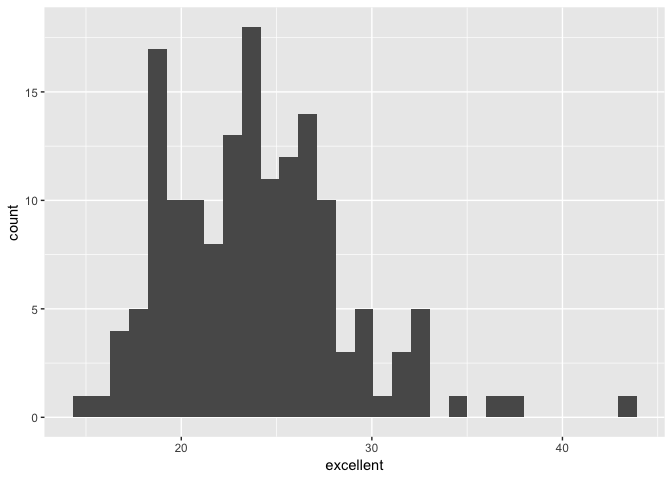
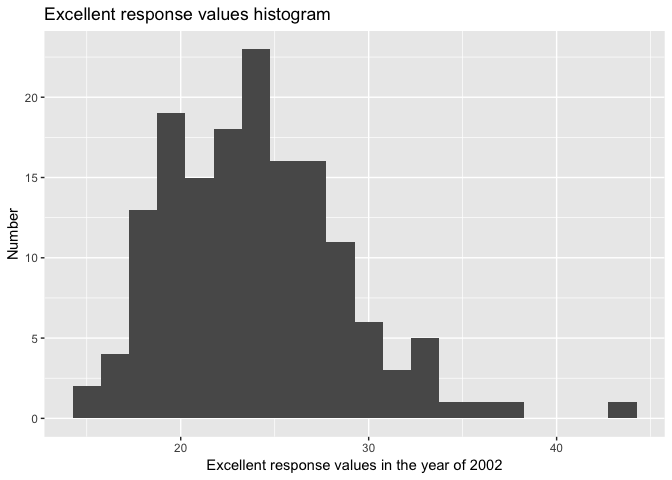
Final version of question 1.

diff --git a/p8105_hw2_sy2824.md b/p8105_hw2_sy2824.md
@@ -18,10 +18,14 @@ subway_data =
   mutate(vending = recode(vending, "YES" = "TRUE", "NO" = "FALSE")) 
 ```
 
-First, I read csv file into R and cleaned the format of variable names. Then, I deleted the unrelating coloums according to the question. Next, I deleted the exit\_only coloum since it is totally related to the coloum "entry". Finally, I changed the "entry" and "vending" coloum from charater to logical.
+-   Read csv file into R and cleaned the format of variable names.
+-   Delete the unrelating coloums according to the question.
+-   Delete the exit\_only coloum since it is completely related to the coloum "entry".
+-   Change the "entry" and "vending" coloum from charater to logical.
+-   The dimisention of this dataset is 1868, 19.
+-   This is not a tidy dataset because the variable `route` appears eleven times in the varibles row, this problem should be fixed.
 
-How many distinct stations?
----------------------------
+**How many distinct stations?**
 
 ``` r
 distinct(subway_data,line,station_name) %>%
@@ -32,8 +36,7 @@ nrow()
 
 There are 465 distinct stations.
 
-How many stations are ADA compliant?
-------------------------------------
+**How many stations are ADA compliant?**
 
 ``` r
 filter(subway_data,ada == "TRUE") %>%
@@ -45,8 +48,7 @@ nrow()
 
 There are 84 ADA compliant.
 
-What proportion of station entrances / exits without vending allow entrance?
-----------------------------------------------------------------------------
+**What proportion of station entrances / exits without vending allow entrance?**
 
 ``` r
 num_entry_without_vending = nrow(filter(subway_data, entry == "TRUE",vending == "FALSE")) 
@@ -56,10 +58,12 @@ proportion
 
     ## [1] 0.3770492
 
-The proportion of station entrances / exits without vending is 0.38
+The proportion of station entrances / exits without vending is 0.377
 
 Reformat data
 -------------
+
+Since the `route` variable has eleven corresponding variables on the first row, I would use the function `gather()` to gather the route information into a new variable called`route_number`.
 
 ``` r
 tidy_subway_data =
@@ -68,11 +72,7 @@ tidy_subway_data =
   select(-route_number)
 ```
 
-    ## Warning: attributes are not identical across measure variables;
-    ## they will be dropped
-
-How many distinct stations serve the A train?
----------------------------------------------
+**How many distinct stations serve the A train? How many are ADA compliant?**
 
 ``` r
 filter(tidy_subway_data, route_served == "A") %>%
@@ -182,14 +182,9 @@ tidy_brfss =
 structured_brfss = 
   spread(tidy_brfss, key = response, value = data_value) %>% 
   janitor::clean_names() %>% 
-  mutate(proportion = (excellent + very_good)/sum(excellent:very_good))
+  mutate(sum = excellent + fair + good + poor + very_good) %>% 
+  mutate(proportion = (excellent + very_good)/sum) 
 ```
-
-    ## Warning in excellent:very_good: numerical expression has 2125 elements:
-    ## only the first used
-
-    ## Warning in excellent:very_good: numerical expression has 2125 elements:
-    ## only the first used
 
 How many unique locations are included in the dataset? Is every state represented? What state is observed the most?
 -------------------------------------------------------------------------------------------------------------------
@@ -247,22 +242,42 @@ Make a histogram of “Excellent” response values in the year 2002.
 
 ``` r
 ggplot(structured_brfss_2002, aes(x = excellent)) +
-  geom_histogram()
+  geom_histogram(binwidth = 1.5,na.rm = T) +
+  labs(
+    title = "Excellent response values histogram",
+    x = "Excellent response values in the year of 2002",
+    y = "Number"
+  )
 ```
-
-    ## `stat_bin()` using `bins = 30`. Pick better value with `binwidth`.
-
-    ## Warning: Removed 2 rows containing non-finite values (stat_bin).
 
 ![](p8105_hw2_sy2824_files/figure-markdown_github/unnamed-chunk-14-1.png)
 
-Make a scatterplot showing the proportion of “Excellent” response values in New York County and Queens County (both in NY State) in each year from 2002 to 2010.
-----------------------------------------------------------------------------------------------------------------------------------------------------------------
+Make a scatterplot showing the proportion of “Excellent” response values
+------------------------------------------------------------------------
 
 ``` r
-filter(structured_brfss, locationdesc == "NY - New York County" | locationdesc == "NY - Queens County") %>% 
-ggplot(aes(x = year, y = excellent)) +
-  geom_point(aes(color = locationdesc))
+filter(structured_brfss, 
+       locationdesc == "NY - New York County" | locationdesc == "NY - Queens County") %>% 
+ggplot(aes(x = year, y = excellent/sum, color = locationdesc)) +
+  geom_point(alpha = .5) +
+  geom_smooth(se = FALSE) +
+  labs(
+    title = "Excellent proportion scatterplot",
+    x = "Year",
+    y = "Proportion of Excellent responses values"
+  )
 ```
 
+    ## `geom_smooth()` using method = 'loess' and formula 'y ~ x'
+
 ![](p8105_hw2_sy2824_files/figure-markdown_github/unnamed-chunk-15-1.png)
+
+``` r
+  theme(legend.position = "bottom")
+```
+
+    ## List of 1
+    ##  $ legend.position: chr "bottom"
+    ##  - attr(*, "class")= chr [1:2] "theme" "gg"
+    ##  - attr(*, "complete")= logi FALSE
+    ##  - attr(*, "validate")= logi TRUE
